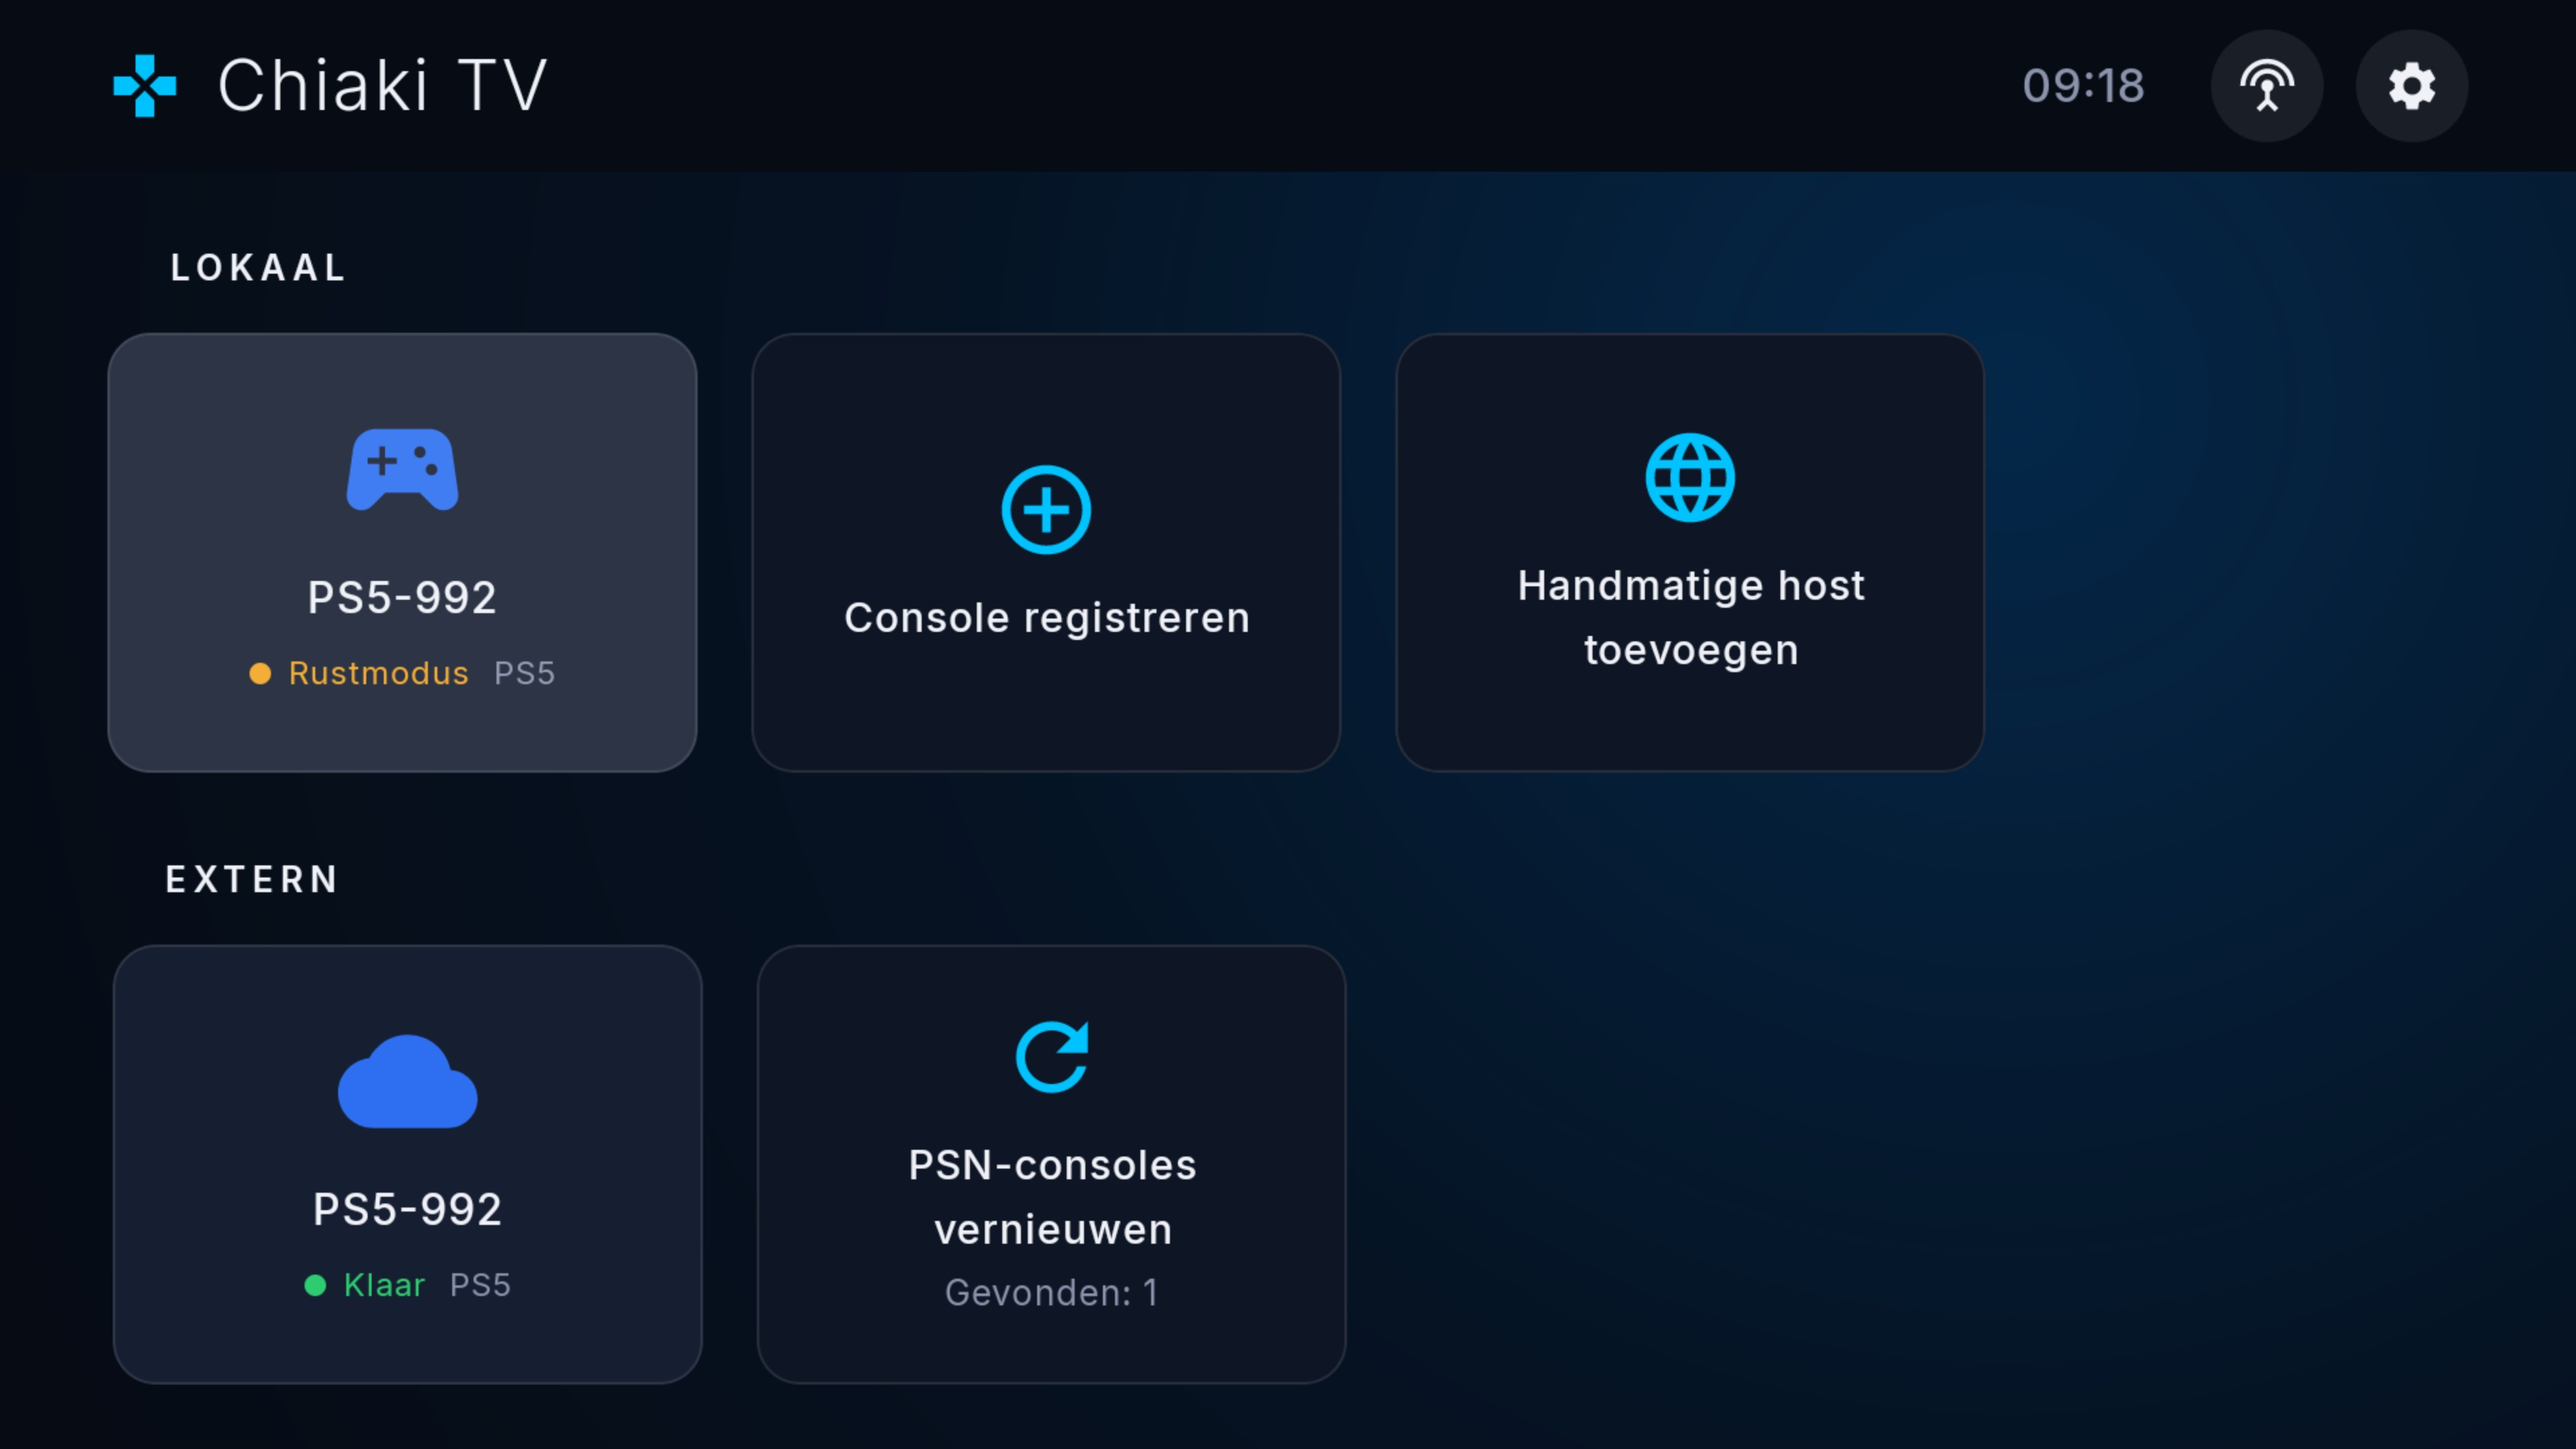
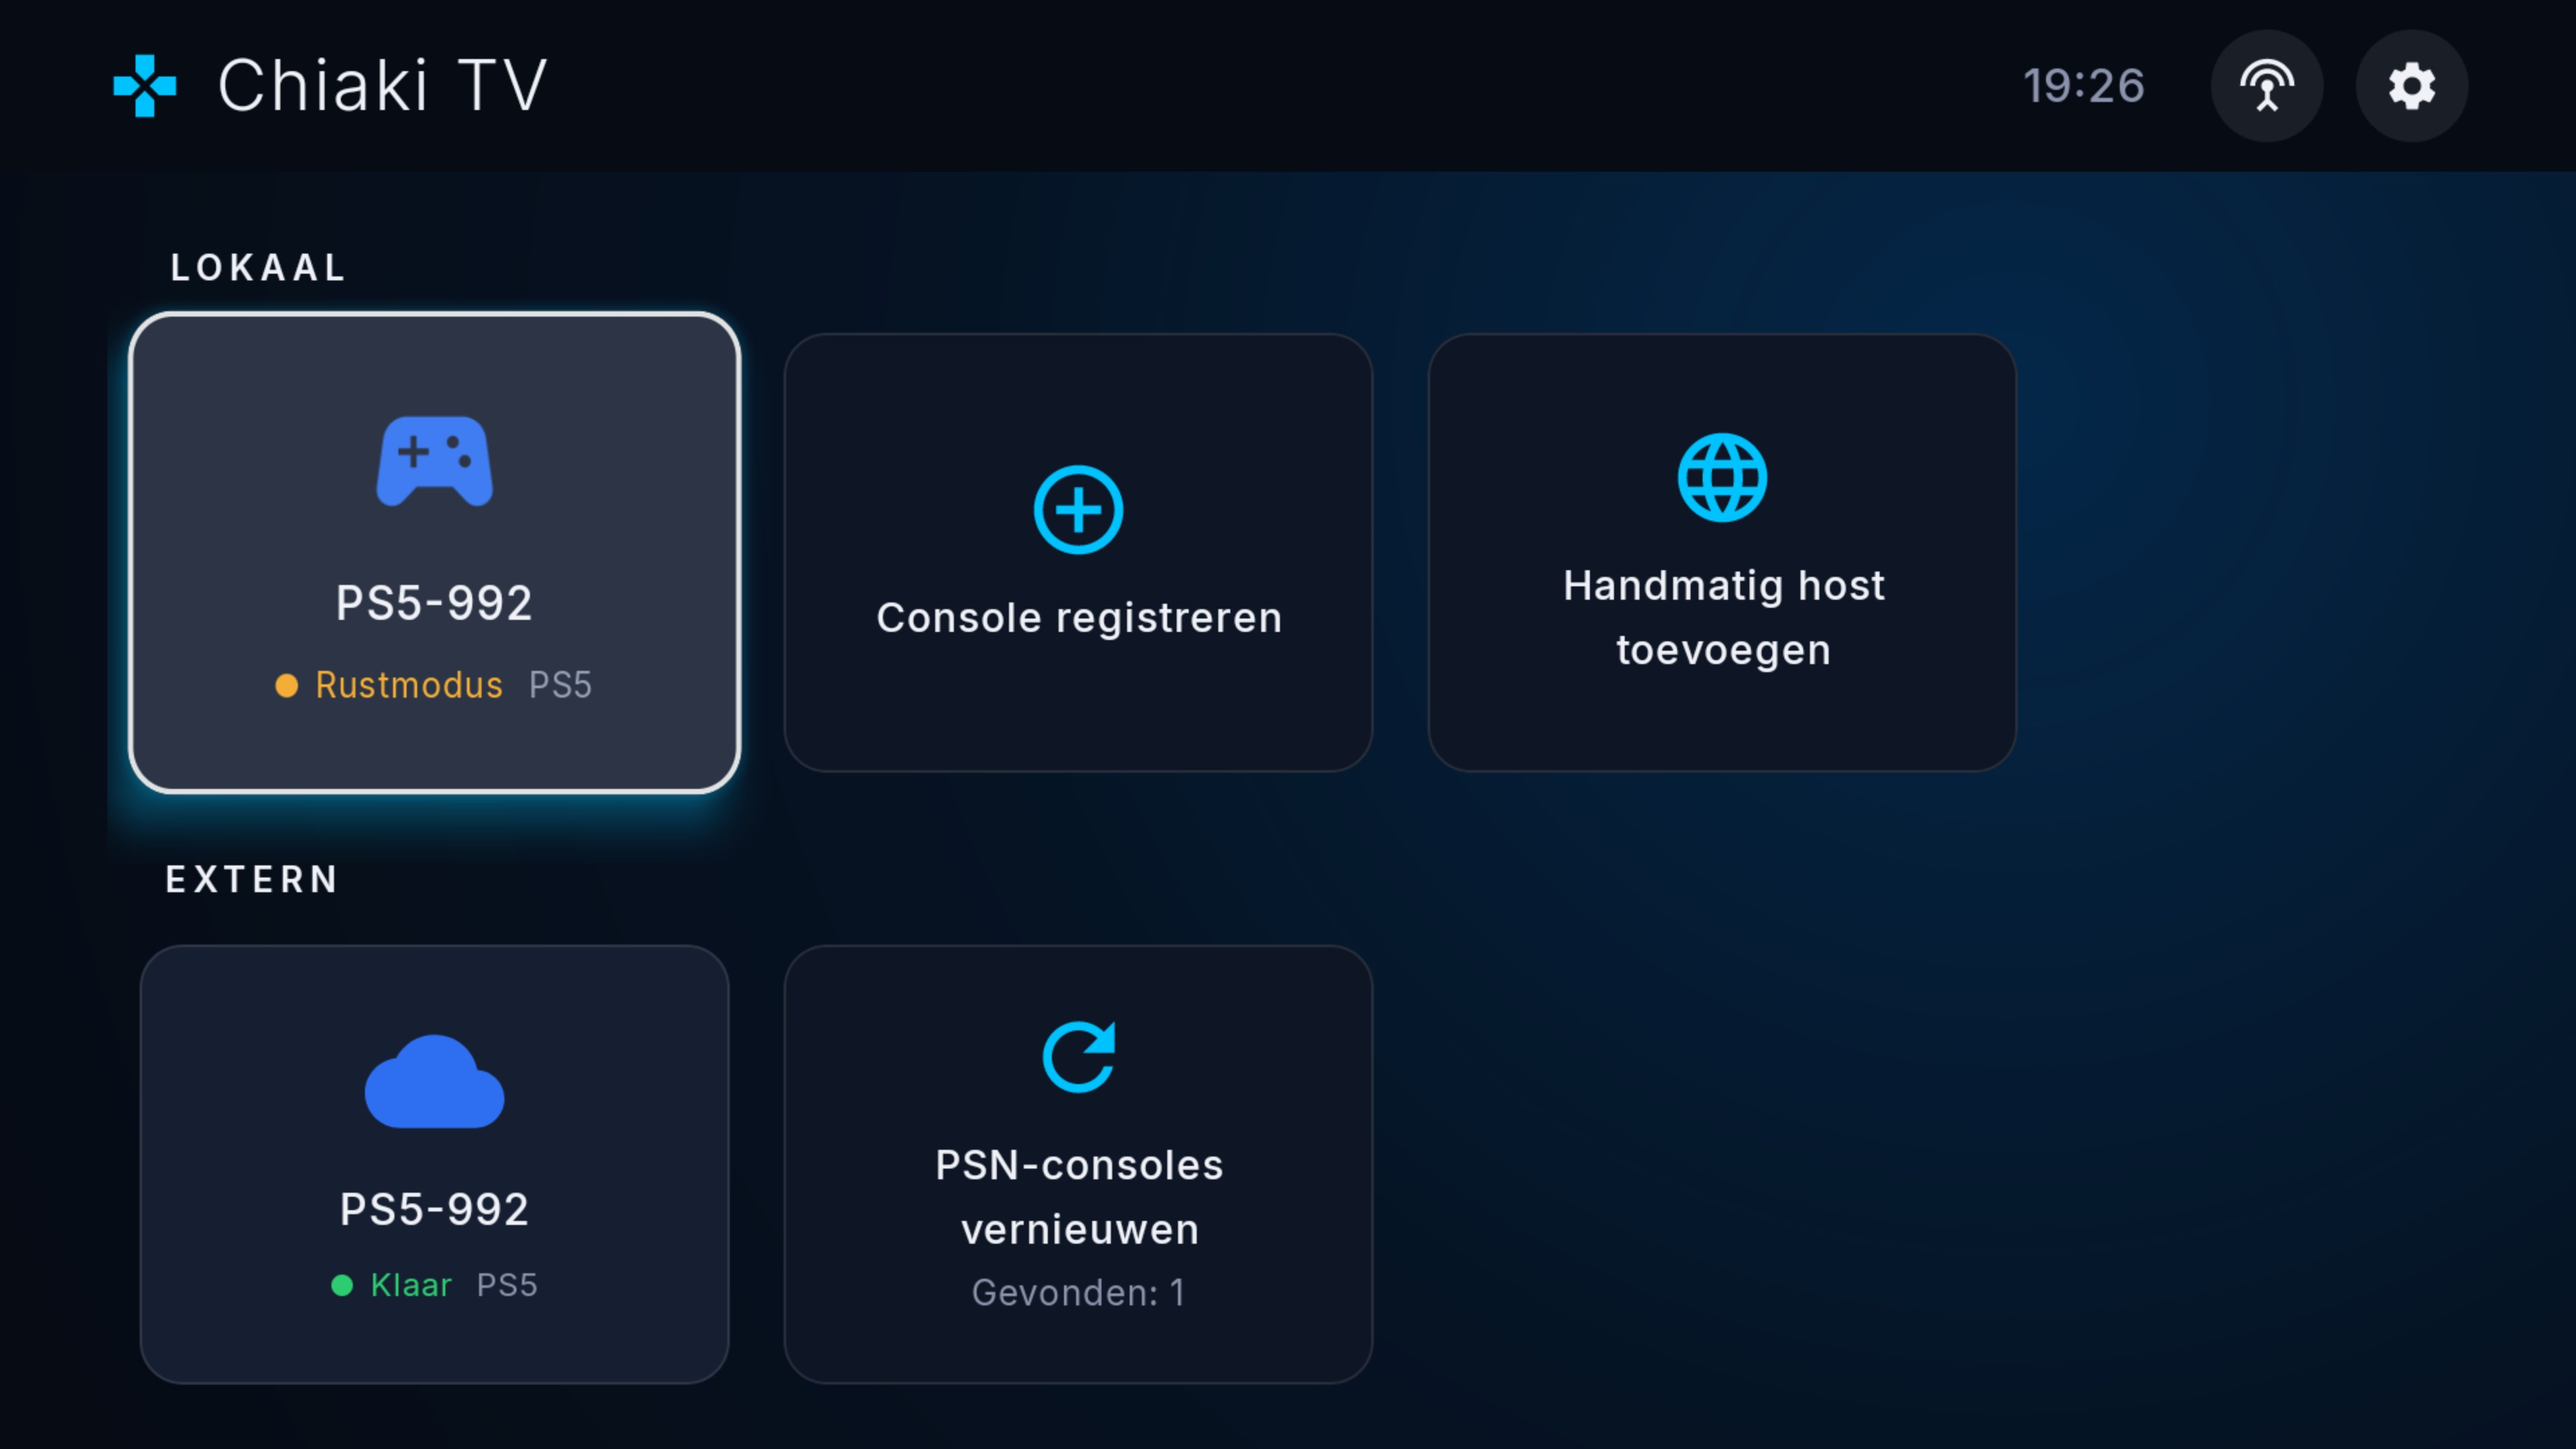
PsIconButton: PS5-style focus grow on top-bar buttons - same fix as TvFocusCard: move the onFocusEvent observer to the front of the modifier chain so focus is actually observed (after clip/clickable it never fired and the scale/glow stayed off), soften glow to 10dp; refresh docs/screenshots/home.jpg

diff --git a/app/src/main/java/com/chiaking/tv/ui/components/buttons/PsIconButton.kt b/app/src/main/java/com/chiaking/tv/ui/components/buttons/PsIconButton.kt
@@ -23,7 +23,7 @@ import androidx.compose.ui.draw.scale
 import androidx.compose.ui.draw.shadow
 import androidx.compose.ui.focus.FocusRequester
 import androidx.compose.ui.focus.focusRequester
-import androidx.compose.ui.focus.onFocusChanged
+import androidx.compose.ui.focus.onFocusEvent
 import androidx.compose.ui.graphics.vector.ImageVector
 import androidx.compose.ui.unit.dp
 import com.chiaking.tv.ui.theme.OnSurfaceLight
@@ -44,10 +44,15 @@ fun PsIconButton(
 {
 	var focused by remember { mutableStateOf(false) }
 	val scale by animateFloatAsState(if(focused) 1.12f else 1.0f, label = "iconBtnScale")
-	val glow by animateDpAsState(if(focused) 14.dp else 0.dp, label = "iconBtnGlow")
+	val glow by animateDpAsState(if(focused) 10.dp else 0.dp, label = "iconBtnGlow")
 
 	Box(
 		modifier = modifier
+			// focus observer must come first; after clip/clickable it never observes focus
+			.onFocusEvent {
+				focused = it.hasFocus
+				onFocusChange(it.hasFocus)
+			}
 			.scale(scale)
 			.shadow(glow, CircleShape, clip = false, ambientColor = PsCyan, spotColor = PsCyan)
 			.then(
@@ -55,10 +60,6 @@ fun PsIconButton(
 			)
 			.clip(CircleShape)
 			.clickable { onClick() }
-			.onFocusChanged {
-				focused = it.isFocused
-				onFocusChange(it.isFocused)
-			}
 			.background(if(focused) PsFocusWhite else SelectionIdle)
 			.padding(10.dp),
 		contentAlignment = Alignment.Center

diff --git a/AGENTS.md b/AGENTS.md
@@ -145,10 +145,18 @@ Never run `gradlew` directly on the host — no local Android SDK/NDK is set up.
   HUD chips 0.6 slate) with `SelectionShape` — do not use solid white fills, they burn on TV.
   Numeric settings use `TvStepperRow` (D-pad Left/Right steps with hold-acceleration, cross
   resets to the default) rather than `TvCycleRow`; discrete pickers (device lists, enums) stay
-  `TvCycleRow`.
+  `TvCycleRow`. Focus feedback: `TvFocusCard` and `PsIconButton` scale up + glow on focus via
+  `animateFloatAsState`/`animateDpAsState` driven by an `onFocusEvent` observer that MUST be the
+  first modifier in the chain (see Gotchas); the card scale is non-uniform (`focusScaleX`/
+  `focusScaleY` params, currently 1.04/1.10) with `zIndex` so it draws above neighbors, and the
+  home rows carry 12dp horizontal scroll padding so a focused edge card is not clipped.
 
 ## Gotchas
 
+- The focus observer in `TvFocusCard`/`PsIconButton` (`onFocusEvent { focused = it.hasFocus }`)
+  MUST be the **first** modifier in the chain. Placed after `.clip()`/`.clickable()` it never
+  observes focus, so `focused` stays false and the scale/glow silently never apply (only Compose's
+  built-in focus highlight shows) — this cost hours to diagnose.
 - `Chiaki.kt` must stay in package `com.metallic.chiaki.lib` — the native `chiaki-jni.h`
   hardcodes `BASE_PACKAGE "com/metallic/chiaki/lib"`; renaming it causes `UnsatisfiedLinkError` at runtime.
 - `ksp.useKSP2=false` in gradle.properties — Room 2.7.1 + Moshi 1.15.2 combo requires KSP1 here.

diff --git a/README.md b/README.md
@@ -40,6 +40,8 @@ home with ambient glow and pill buttons, two-pane settings) and full D-pad/gamep
   internet session directly
 - **Focus memory** — every menu (home, settings, logs, hosts, in-stream HUD) remembers exactly
   where you were when you left it
+- **PS5-style focus** — the selected console card and the top-bar buttons smoothly scale up with
+  a soft cyan glow, mirroring the console's own UI
 - **Dutch & English UI** — follows the system language
 - **Gamepad support** — full controller mapping incl. sticks, triggers, motion controls and rumble
 - **TV remote support** — D-pad and menu button act as controller input while streaming (toggleable)
